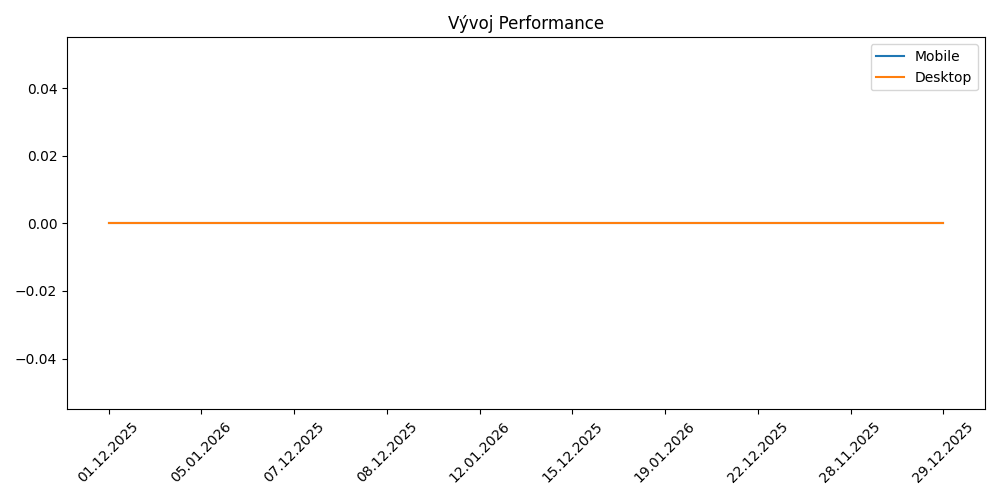
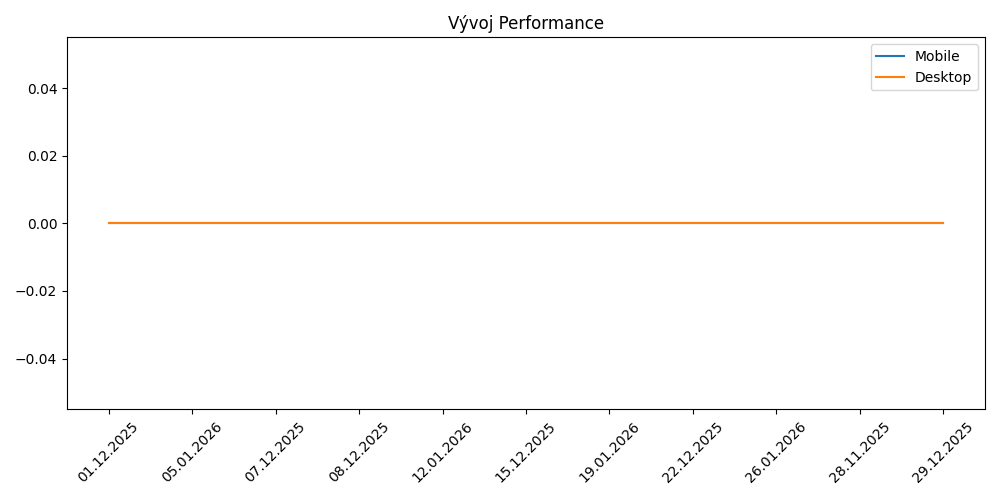
Automatický týdenní report

diff --git a/reports/report_26.01.2026.md b/reports/report_26.01.2026.md
@@ -1,0 +1,35 @@
+# Týdenní report – 26.01.2026
+
+## 📈 Vývoj Performance
+![Performance](../reports/performance_trend.png)
+
+## 📘 Vývoj SEO + AI/LLM skóre
+![SEO AI](../reports/seo_ai_trend.png)
+
+## 🔵 https://www.o2.cz/
+
+### 📱 Mobile Performance: **0**
+### 🖥 Desktop Performance: **0**
+### 🔍 SEO: **100**
+### 🤖 AI/LLM: **100**
+
+### ✔ Obrázky jsou v pořádku
+
+## 🔵 https://www.o2.cz/osobni/o2spolu
+
+### 📱 Mobile Performance: **0**
+### 🖥 Desktop Performance: **0**
+### 🔍 SEO: **100**
+### 🤖 AI/LLM: **100**
+
+### ✔ Obrázky jsou v pořádku
+
+## 🔵 https://www.o2.cz/osobni/oneplay
+
+### 📱 Mobile Performance: **0**
+### 🖥 Desktop Performance: **0**
+### 🔍 SEO: **100**
+### 🤖 AI/LLM: **100**
+
+### ✔ Obrázky jsou v pořádku
+
